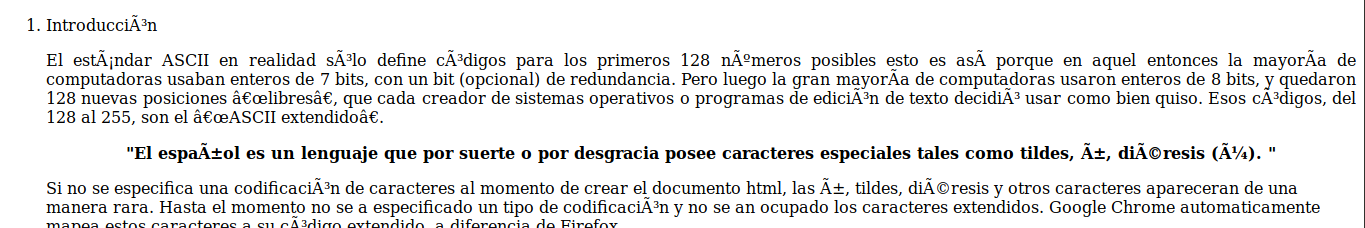
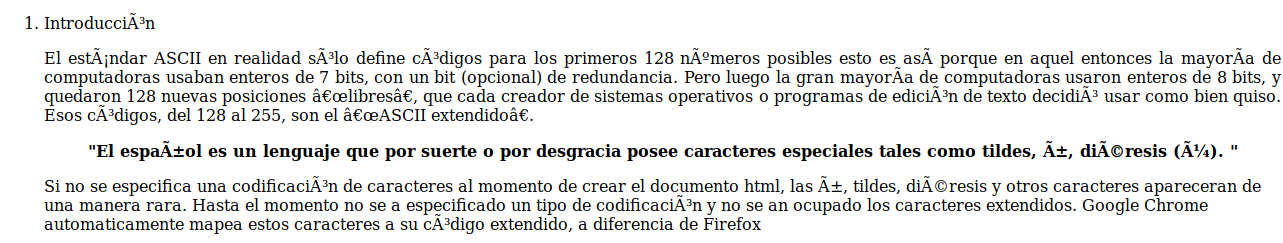
Cambios rama de desarrollo

diff --git a/TablaCaracteresExtendidos.html b/TablaCaracteresExtendidos.html
@@ -1,0 +1,240 @@
+<!DOCTYPE html>
+<html>
+  <head>
+    <title>Top Pane</title>
+    <meta charset="utf-8"/>
+    <meta name="author" content="Eduardo Vázquez Martínez" />
+    <meta name="description" content="Página que mostrar el tema relacionado con los caracteres extendidos"/>
+    <meta name="keywords" content="caracteres,extendidos"/>
+    <link rel="stylesheet" href="CSS/TopFrame.css" type="text/css"/>
+    <link rel="stylesheet" href="CSS/myCSS.css" type="text/css"/>
+    <!--La línea anterior enlaza la hoja de estilos externa que se definio-->
+  </head>
+  <body class="desplegar" style="text-align: -webkit-center;text-align:-moz-center">
+    <!--
+      La propiedad text-align con valor -webkit-center es válida para el navegador
+      chrome.
+      Cuando tiene el valor -moz-center es válida para el navegador mozilla firefox.
+      Ambos valores centran el contendio del body.
+    -->
+    <h3>La siguiente tabla muestra algunos de los caracteres extendidos más utilizados.</h3>
+    <table border="1"  width="50%" style="text-align:center">
+      <!--
+        La propiedad 'text-align' con valor 'center' sera la encargada
+        de centrar el contenido de las celdas de la tabla.
+        Tambien con la propiedad 'width' y el valor '50%' hace que la tabla
+        tenga un ancho del 50% del body.
+      -->
+      <tr>
+        <td>Símbolo</td>
+        <td>Código</td>
+        <td>Entidad</td>
+        <td>Descripción</td>
+      </tr>
+      <tr>
+        <td></td>
+        <td>&amp#160;</td>
+        <td>&ampnbsp</td>
+        <td>Espacio sin retorno</td>
+      </tr>
+      <tr>
+        <td>&#161;</td>
+        <td>&amp#161;</td>
+        <td>&ampiexcl;</td>
+        <td>Signo de exclamación de apertura</td>
+      </tr>
+      <tr>
+        <td>&#163;</td>
+        <td>&amp#163;</td>
+        <td>&amppound;</td>
+        <td>Libra</td>
+      </tr>
+      <tr>
+        <td>&#164;</td>
+        <td>&amp#164;</td>
+        <td>&ampcurren;</td>
+        <td>Símbolo de moneda</td>
+      </tr>
+      <tr>
+        <td>&#165;</td>
+        <td>&amp#165;</td>
+        <td>&ampyen;</td>
+        <td>Símbolo del Yen</td>
+      </tr>
+      <tr>
+        <td>&#166;</td>
+        <td>&amp#166;</td>
+        <td>&ampbrvbar;</td>
+        <td>Barra partida</td>
+      </tr>
+      <tr>
+        <td>&#167;</td>
+        <td>&amp#167;</td>
+        <td>&ampsect;</td>
+        <td>Signo de sección</td>
+      </tr>
+      <tr>
+        <td>&#168;</td>
+        <td>&amp#168;</td>
+        <td>&ampuml;</td>
+        <td>Diéresis</td>
+      </tr>
+      <tr>
+        <td>&#169;</td>
+        <td>&amp#169;</td>
+        <td>&ampcopy;</td>
+        <td>Signo de derecho de copia (copyright)</td>
+      </tr>
+      <tr>
+        <td>&#170;</td>
+        <td>&amp#170;</td>
+        <td>&ampordf;</td>
+        <td>Indicador de ordinal femenino</td>
+      </tr>
+      <tr>
+        <td>&#171;</td>
+        <td>&amp#171;</td>
+        <td>&amplaquo;</td>
+        <td>Marca de acotación doble ángulo izquierdo</td>
+      </tr>
+      <tr>
+        <td>&#172;</td>
+        <td>&amp#172;</td>
+        <td>&ampnot;</td>
+        <td>Símbolo de no</td>
+      </tr>
+      <tr>
+        <td>&#174;</td>
+        <td>&amp#174;</td>
+        <td>&ampreg;</td>
+        <td>Símbolo de registrado</td>
+      </tr>
+      <tr>
+        <td>&#175;</td>
+        <td>&amp#175;</td>
+        <td>&ampmacr;</td>
+        <td>Acento de vocal larga</td>
+      </tr>
+      <tr>
+        <td>&#176;</td>
+        <td>&amp#176;</td>
+        <td>&ampdeg;</td>
+        <td>Símbolo de grados</td>
+      </tr>
+      <tr>
+        <td>&#177;</td>
+        <td>&amp#177;</td>
+        <td>&ampplusmn;</td>
+        <td>Símbolo de más-menos</td>
+      </tr>
+      <tr>
+        <td>&#178;</td>
+        <td>&amp#178;</td>
+        <td>&ampsup2;</td>
+        <td>Símbolo de al cuadrado</td>
+      </tr>
+      <tr>
+        <td>&#179;</td>
+        <td>&amp#179;</td>
+        <td>&ampsup3;</td>
+        <td>Símbolo de al cubo</td>
+      </tr>
+      <tr>
+        <td>&#180;</td>
+        <td>&amp#180;</td>
+        <td>&ampacute;</td>
+        <td>Acento agudo</td>
+      </tr>
+      <tr>
+        <td>&#181;</td>
+        <td>&amp#181;</td>
+        <td>&ampmicro;</td>
+        <td>Símbolo de micro</td>
+      </tr>
+      <tr>
+        <td>&#182;</td>
+        <td>&amp#182;</td>
+        <td>&amppara;</td>
+        <td>Símbolo de párrafo</td>
+      </tr>
+      <tr>
+        <td>&#183;</td>
+        <td>&amp#183;</td>
+        <td>&ampmiddot;</td>
+        <td>Punto medio</td>
+      </tr>
+      <tr>
+        <td>&#184;</td>
+        <td>&amp#184;</td>
+        <td>&ampcedil;</td>
+        <td>Cedilla</td>
+      </tr>
+      <tr>
+        <td>&#187;</td>
+        <td>&amp#187;</td>
+        <td>&ampraquo;</td>
+        <td>Marca de acotación doble ángulo derecho</td>
+      </tr>
+      <tr>
+        <td>&#188;</td>
+        <td>&amp#188;</td>
+        <td>&ampfrac14;</td>
+        <td>Fracción un cuarto</td>
+      </tr>
+      <tr>
+        <td>&#189;</td>
+        <td>&amp#189;</td>
+        <td>&ampfrac12;</td>
+        <td>Fracción un Medio</td>
+      </tr>
+      <tr>
+        <td>&#190;</td>
+        <td>&amp#190;</td>
+        <td>&ampfrac34;</td>
+        <td>Fracción tres cuartos</td>
+      </tr>
+      <tr>
+        <td>&#191;</td>
+        <td>&amp#191;</td>
+        <td>&ampiquest;</td>
+        <td>Cerrar interrogación</td>
+      </tr>
+      <tr>
+        <td>&#209;</td>
+        <td>&amp#209;</td>
+        <td>&ampNtilde;</td>
+        <td>	Letra mayúscula N con tilde</td>
+      </tr>
+      <tr>
+        <td>&#255;</td>
+        <td>&amp#255;</td>
+        <td>&ampyuml;</td>
+        <td>Letra minúscula y con diéresis</td>
+      </tr>
+      <tr>
+        <td>&#240;</td>
+        <td>&amp#240;</td>
+        <td>&ampeth;</td>
+        <td>Letra minúscula eth</td>
+      </tr>
+      <tr>
+        <td>&#241;</td>
+        <td>&amp#241;</td>
+        <td>&ampntilde;</td>
+        <td>Letra minúscula con tilde</td>
+      </tr>
+      <tr>
+        <td>&#247;</td>
+        <td>&amp#247;</td>
+        <td>&ampdivide;</td>
+        <td>Signo de la división</td>
+      </tr>
+      <tr>
+        <td>&#248;</td>
+        <td>&amp#248;</td>
+        <td>&amposlash;</td>
+        <td>Letra minúscula o barrada</td>
+      </tr>
+    <table>
+  </body>
+</html>

diff --git a/CaracteresExtendidos.html b/CaracteresExtendidos.html
@@ -2,6 +2,7 @@
 <html>
   <head>
     <title>Top Pane</title>
+    <meta charset="utf-8"/>
     <meta name="author" content="Eduardo Vázquez Martínez" />
     <meta name="description" content="Página que mostrar el tema relacionado con los caracteres extendidos"/>
     <meta name="keywords" content="caracteres,extendidos"/>
@@ -53,7 +54,7 @@
               -->
               <p class="ParrafoNegCenter">
                 De esa manera se visualizaría la página en Firefox si no se
-                especifica una codificación o si no se utilizan los caractes extendidos 
+                especifica una codificación o si no se utilizan los caractes extendidos
               </p>
             </figcaption>
           </figure>

diff --git a/Indice.html b/Indice.html
@@ -1,6 +1,7 @@
 <!DOCTYPE html>
 <html>
   <head>
+    <meta charset="utf-8"/>
     <title>Inicio</title>
     <link rel="stylesheet" href="CSS/TopFrame.css" type="text/css"/>
   </head>
@@ -97,7 +98,12 @@
         <ol type="a">
           <li>
             <a href="CaracteresExtendidos.html" target="desplegar">
-              Caracteres extendidos
+              Introducción.
+            </a>
+          </li>
+          <li>
+            <a href="TablaCaracteresExtendidos.html" target="desplegar">
+              Tabla de caracteres extendidos.
             </a>
           </li>
         </ol>

diff --git a/CSS/TopFrame.css b/CSS/TopFrame.css
@@ -18,11 +18,11 @@
   background: linear-gradient(to bottom right,#cfe5fa, white);/*Etiqueta standar*/
 }
 .desplegar{
-  background:linear-gradient(to bottom right,#cfe5fa, white);
+  background:linear-gradient(to top right,#cfe5fa, white);
  /* W3C */
 }
 .indice{
-  background: linear-gradient(to bottom left,#cfe5fa, white);/*Etiqueta standar*/
+  background: linear-gradient(to top left,#cfe5fa, white);/*Etiqueta standar*/
 }
 .titulo{
   display: inline;
